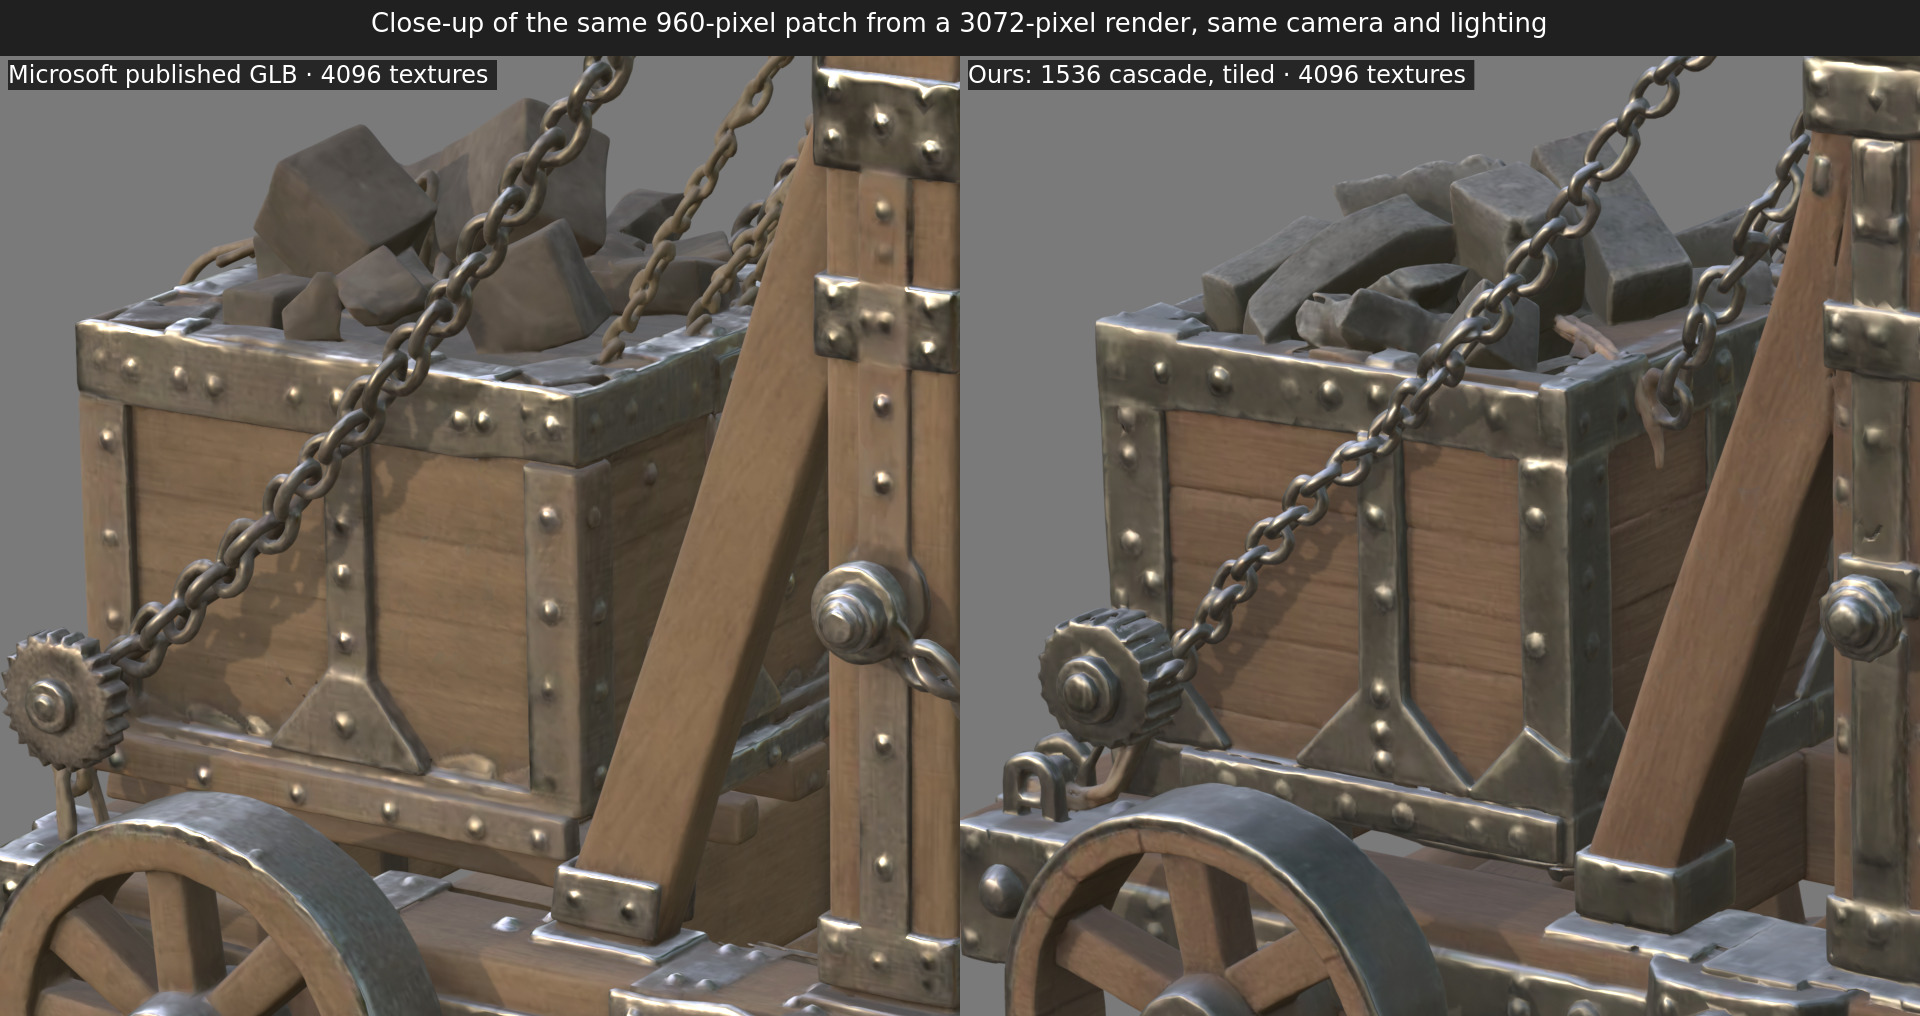
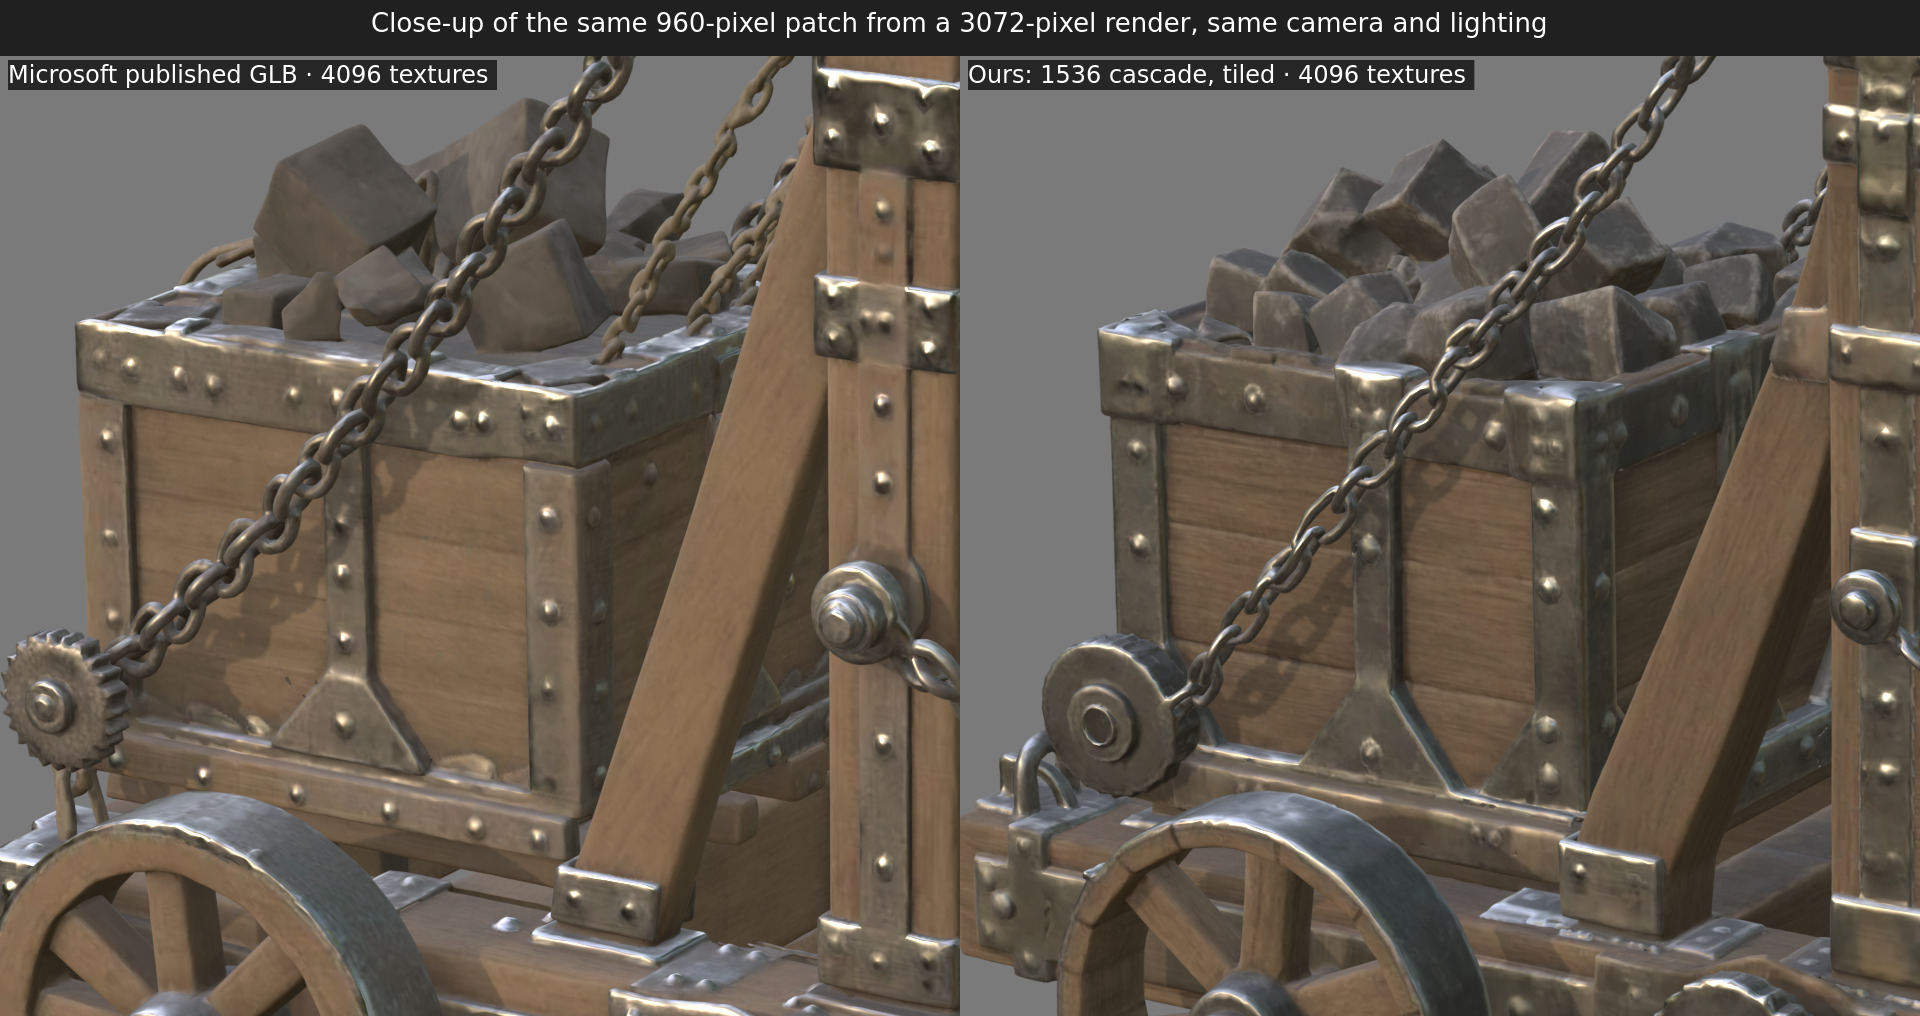
replace catapult images with seed 18

Changed region(s): [[0.5, 0.0305, 1.0, 1.0]]

diff --git a/README.md b/README.md
@@ -10,7 +10,7 @@ An espalier is a fruit tree trained flat against a trellis, so a full-size tree 
 ![Microsoft's published catapult (top) and Espalier-2's at 1536 on a 16 GB card (bottom), rendered from the same cameras](docs/catapult-comparison.jpg)
 
 The top row is Microsoft's published GLB for this input, from the TRELLIS.2 project page. The bottom row is
-Espalier-2's output from the same input image at 1536, with seed 42. Microsoft doesn't publish the seed or resolution of its
+Espalier-2's output from the same input image at 1536, with seed 18. Microsoft doesn't publish the seed or resolution of its
 gallery items, so the two are different samples of the same model. Up close, the 4096-pixel textures carry the same
 level of detail:
 
